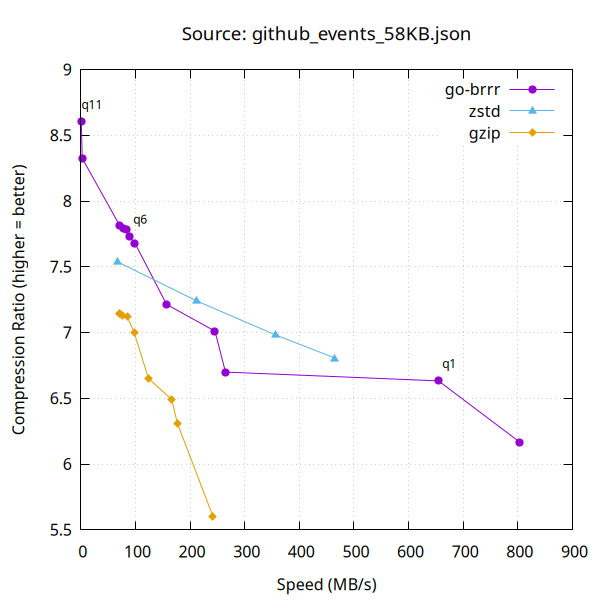
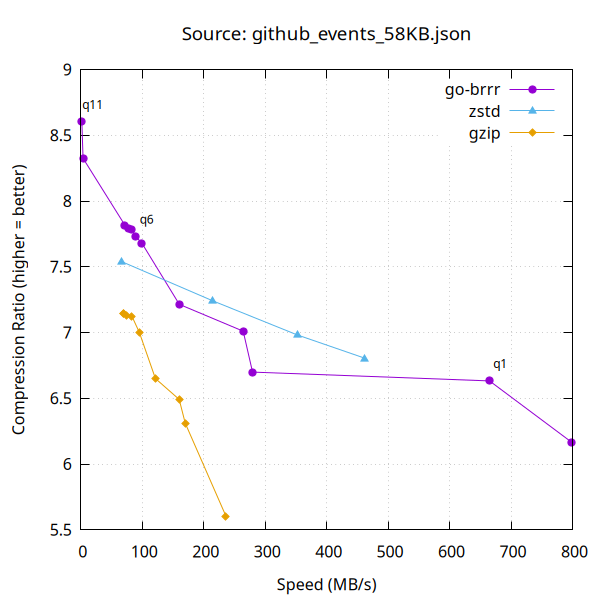
chore: pre-release benchmark results update

diff --git a/README.md b/README.md
@@ -146,19 +146,19 @@ Read these rows as repeated complete-stream compression through the Go APIs. The
 <!-- bench:compress -->
 | | go-brrr (sec/op) | andybalholm (sec/op) | cbrotli (sec/op) |
 | --- | --- | --- | --- |
-| CompressOneshot/q=0/payload=VariedPayloads | 6.515m ± 1% | 12.420m ± 0%   +90.64% (p=0.000 n=8) | 6.847m ± 0%    +5.10% (p=0.000 n=8) |
-| CompressOneshot/q=1/payload=VariedPayloads | 9.797m ± 0% | 20.169m ± 0%  +105.88% (p=0.000 n=8) | 10.808m ± 0%   +10.32% (p=0.000 n=8) |
-| CompressOneshot/q=2/payload=VariedPayloads | 14.68m ± 0% | 38.86m ± 2%  +164.76% (p=0.000 n=8) | 17.93m ± 0%   +22.14% (p=0.000 n=8) |
-| CompressOneshot/q=3/payload=VariedPayloads | 16.06m ± 0% | 44.34m ± 1%  +176.12% (p=0.000 n=8) | 20.85m ± 0%   +29.87% (p=0.000 n=8) |
-| CompressOneshot/q=4/payload=VariedPayloads | 25.68m ± 0% | 61.37m ± 1%  +138.97% (p=0.000 n=8) | 29.96m ± 0%   +16.67% (p=0.000 n=8) |
-| CompressOneshot/q=5/payload=VariedPayloads | 36.41m ± 0% | 80.19m ± 1%  +120.22% (p=0.000 n=8) | 47.13m ± 0%   +29.43% (p=0.000 n=8) |
-| CompressOneshot/q=6/payload=VariedPayloads | 43.87m ± 0% | 90.57m ± 1%  +106.47% (p=0.000 n=8) | 54.78m ± 0%   +24.88% (p=0.000 n=8) |
-| CompressOneshot/q=7/payload=VariedPayloads | 50.34m ± 0% | 127.34m ± 1%  +152.96% (p=0.000 n=8) | 110.24m ± 0%  +119.00% (p=0.000 n=8) |
-| CompressOneshot/q=8/payload=VariedPayloads | 58.95m ± 0% | 146.62m ± 1%  +148.72% (p=0.000 n=8) | 81.03m ± 1%   +37.46% (p=0.000 n=8) |
-| CompressOneshot/q=9/payload=VariedPayloads | 74.02m ± 0% | 209.77m ± 2%  +183.41% (p=0.000 n=8) | 237.70m ± 0%  +221.15% (p=0.000 n=8) |
-| CompressOneshot/q=10/payload=VariedPayloads | 1221.7m ± 2% | 1368.5m ± 1%   +12.01% (p=0.000 n=8) | 864.3m ± 0%   -29.26% (p=0.000 n=8) |
-| CompressOneshot/q=11/payload=VariedPayloads | 2.939 ± 1% | 3.424 ± 1%   +16.51% (p=0.000 n=8) | 2.266 ± 0%   -22.89% (p=0.000 n=8) |
-| **geomean** | 52.96m | 111.1m       +109.76% | 67.47m        +27.40% |
+| CompressOneshot/q=0/payload=VariedPayloads | 6.342m ± 0% | 12.447m ± 1%   +96.25% (p=0.000) | 6.868m ± 0%    +8.29% (p=0.000) |
+| CompressOneshot/q=1/payload=VariedPayloads | 9.530m ± 0% | 20.163m ± 0%  +111.57% (p=0.000) | 10.824m ± 0%   +13.58% (p=0.000) |
+| CompressOneshot/q=2/payload=VariedPayloads | 14.74m ± 0% | 39.29m ± 5%  +166.60% (p=0.000) | 18.09m ± 0%   +22.76% (p=0.000) |
+| CompressOneshot/q=3/payload=VariedPayloads | 15.89m ± 0% | 43.29m ± 5%  +172.39% (p=0.000) | 20.94m ± 0%   +31.77% (p=0.000) |
+| CompressOneshot/q=4/payload=VariedPayloads | 25.07m ± 0% | 62.03m ± 2%  +147.45% (p=0.000) | 30.13m ± 0%   +20.19% (p=0.000) |
+| CompressOneshot/q=5/payload=VariedPayloads | 35.77m ± 0% | 80.57m ± 1%  +125.28% (p=0.000) | 47.34m ± 0%   +32.37% (p=0.000) |
+| CompressOneshot/q=6/payload=VariedPayloads | 43.44m ± 0% | 90.94m ± 1%  +109.32% (p=0.000) | 54.76m ± 0%   +26.05% (p=0.000) |
+| CompressOneshot/q=7/payload=VariedPayloads | 50.07m ± 0% | 125.95m ± 1%  +151.52% (p=0.000) | 107.23m ± 0%  +114.15% (p=0.000) |
+| CompressOneshot/q=8/payload=VariedPayloads | 58.44m ± 1% | 146.65m ± 1%  +150.97% (p=0.000) | 82.10m ± 0%   +40.49% (p=0.000) |
+| CompressOneshot/q=9/payload=VariedPayloads | 73.59m ± 0% | 209.19m ± 1%  +184.26% (p=0.000) | 232.63m ± 0%  +216.11% (p=0.000) |
+| CompressOneshot/q=10/payload=VariedPayloads | 814.9m ± 0% | 1346.7m ± 2%   +65.27% (p=0.000) | 856.2m ± 1%    +5.08% (p=0.000) |
+| CompressOneshot/q=11/payload=VariedPayloads | 1.587 ± 0% | 3.365 ± 1%  +112.05% (p=0.000) | 2.266 ± 0%   +42.77% (p=0.000) |
+| **geomean** | 48.10m | 110.7m       +130.18% | 67.37m        +40.05% |
 <!-- /bench:compress -->
 
 *Streaming* uses `brrr.NewReader` + `io.ReadAll`; *one-shot* uses `brrr.Decompress` on a complete in-memory blob.
@@ -168,13 +168,13 @@ Read these rows as repeated complete-stream compression through the Go APIs. The
 As cbrotli doesn't have the "resettable" API it's not included here.
 
 <!-- bench:decompress -->
-| | go-brrr (sec/op) | andybalholm (sec/op) |
-| --- | --- | --- |
-| Decompress/q=4/payload=VariedPayloads | 5.378m ± 0% | 9.539m ± 0%  +77.36%  |
-| Decompress/q=5/payload=VariedPayloads | 5.302m ± 0% | 9.143m ± 0%  +72.43%  |
-| Decompress/q=6/payload=VariedPayloads | 5.146m ± 0% | 8.881m ± 0%  +72.56%  |
-| Decompress/q=11/payload=VariedPayloads | 5.621m ± 0% | 8.959m ± 0%  +59.37%  |
-| **geomean** | 5.359m | 9.127m       +70.30% |
+| | go-brrr (sec/op) | andybalholm (sec/op) | diff | p |
+| --- | --- | --- | --- | --- |
+| Decompress/q=4/payload=VariedPayloads | 4.373m ± 0% | 9.593m ± 0% | +119.38% | 0.000 |
+| Decompress/q=5/payload=VariedPayloads | 4.181m ± 0% | 9.183m ± 0% | +119.62% | 0.000 |
+| Decompress/q=6/payload=VariedPayloads | 4.052m ± 0% | 8.914m ± 0% | +119.97% | 0.000 |
+| Decompress/q=11/payload=VariedPayloads | 4.645m ± 0% | 8.925m ± 0% | +92.16% | 0.000 |
+| **geomean** | 4.307m | 9.150m | +112.43% |  |
 <!-- /bench:decompress -->
 
 ### One-shot Decompression
@@ -182,11 +182,11 @@ As cbrotli doesn't have the "resettable" API it's not included here.
 <!-- bench:decompresso -->
 | | go-brrr (sec/op) | andybalholm (sec/op) | cbrotli (sec/op) | google-brotli (sec/op) |
 | --- | --- | --- | --- | --- |
-| DecompressOneshot/q=4/payload=VariedPayloads | 5.458m ± 0% | 10.042m ± 0%  +84.01%  | 5.191m ±  2%   -4.89%  | 10.595m ± 0%  +94.13%  |
-| DecompressOneshot/q=5/payload=VariedPayloads | 5.458m ± 1% | 9.609m ± 0%  +76.07%  | 5.022m ± 11%        ~  | 10.541m ± 0%  +93.14%  |
-| DecompressOneshot/q=6/payload=VariedPayloads | 5.329m ± 1% | 9.384m ± 0%  +76.11%  | 4.916m ±  4%   -7.74%  | 10.240m ± 1%  +92.17%  |
-| DecompressOneshot/q=11/payload=VariedPayloads | 5.816m ± 1% | 9.540m ± 0%  +64.03%  | 6.981m ±  1%  +20.03%  | **crashed** |
-| **geomean** | 5.512m | 9.641m       +74.91% | 5.469m         -0.78% | 10.46m       +93.14%                 |
+| DecompressOneshot/q=4/payload=VariedPayloads | 4.549m ± 0% | 10.082m ± 0%  +121.63% (p=0.000) | 5.286m ± 2%  +16.21% (p=0.000) | 10.470m ± 0%  +130.16% (p=0.000) |
+| DecompressOneshot/q=5/payload=VariedPayloads | 4.433m ± 0% | 9.611m ± 0%  +116.82% (p=0.000) | 5.023m ± 1%  +13.32% (p=0.000) | 10.549m ± 0%  +137.98% (p=0.000) |
+| DecompressOneshot/q=6/payload=VariedPayloads | 4.318m ± 0% | 9.415m ± 0%  +118.05% (p=0.000) | 4.936m ± 1%  +14.31% (p=0.000) | 10.176m ± 0%  +135.69% (p=0.000) |
+| DecompressOneshot/q=11/payload=VariedPayloads | 4.904m ± 0% | 9.377m ± 0%   +91.22% (p=0.000) | 6.534m ± 0%  +33.25% (p=0.000 | **crashed** |
+| **geomean** | 4.546m | 9.617m       +111.57% | 5.410m       +19.01% | 10.40m       +134.59%                 |
 <!-- /bench:decompresso -->
 
 
